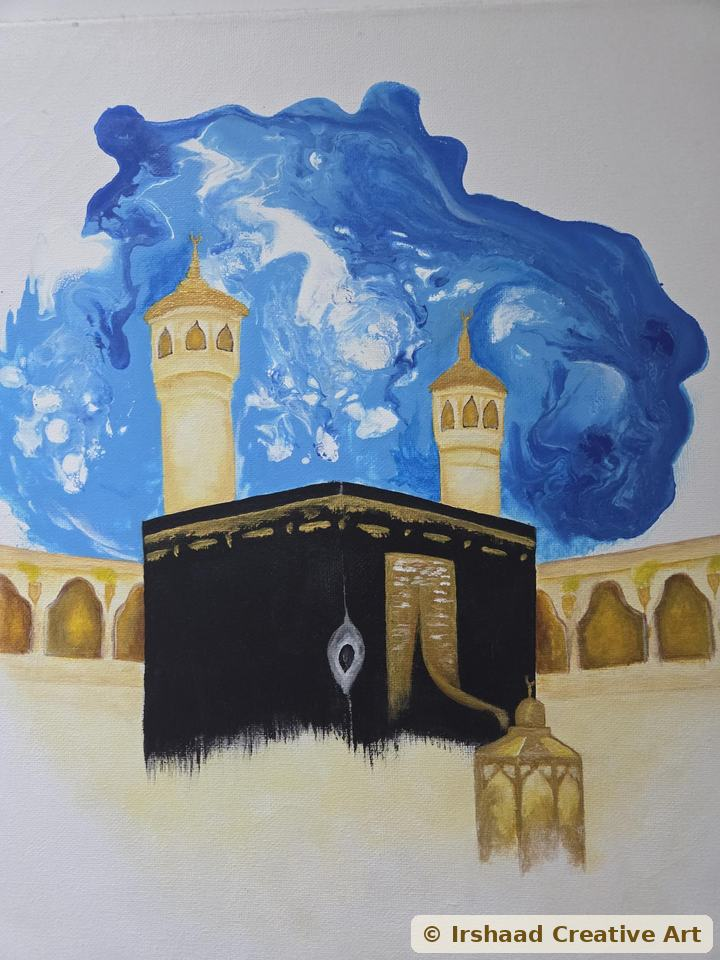
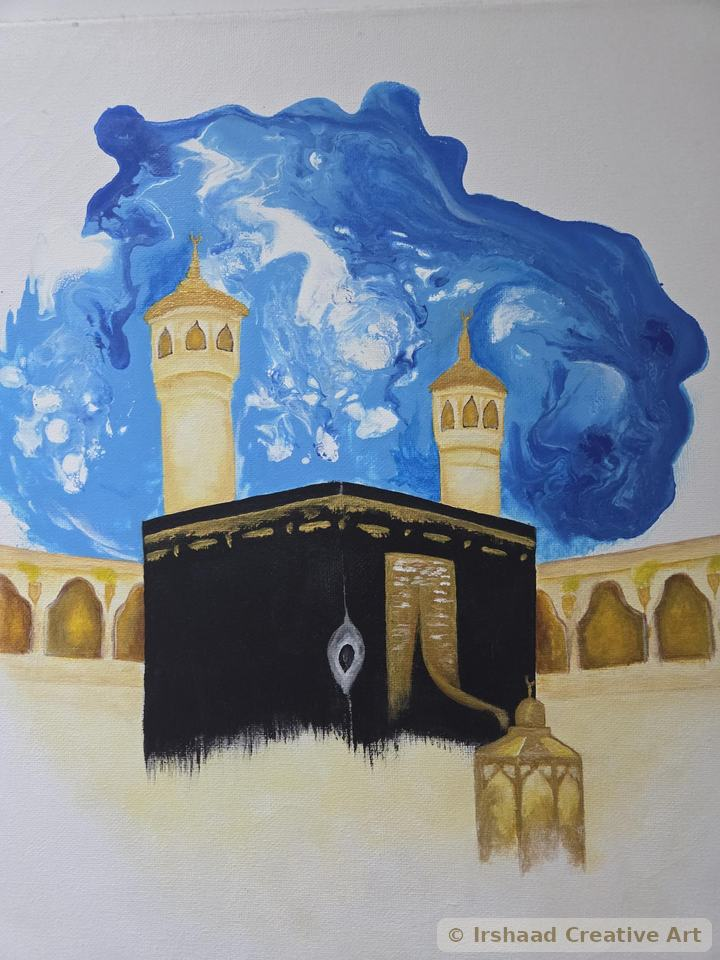
v129: watermerk op de schilderijen transparanter
Claude-Session: https://claude.ai/code/session_01JY69MZKw5SzGHAsGNA9qVx

Changed region(s): [[0.55, 0.9375, 1.0, 1.0]]

diff --git a/sw.js b/sw.js
@@ -1,6 +1,6 @@
 /* Islam Quiz – service worker (netwerk eerst, cache als terugval)
    Verhoog CACHE_VERSION bij elke release. Zo zien bezoekers altijd meteen de nieuwste versie. */
-const CACHE_VERSION = "islam-quiz-v128";
+const CACHE_VERSION = "islam-quiz-v129";
 const QURAN_CACHE = "iq-quran-1";   // Koran-tekst en -lettertype: blijven bewaard tussen versies (offline lezen)
 const PRECACHE = [];
 
